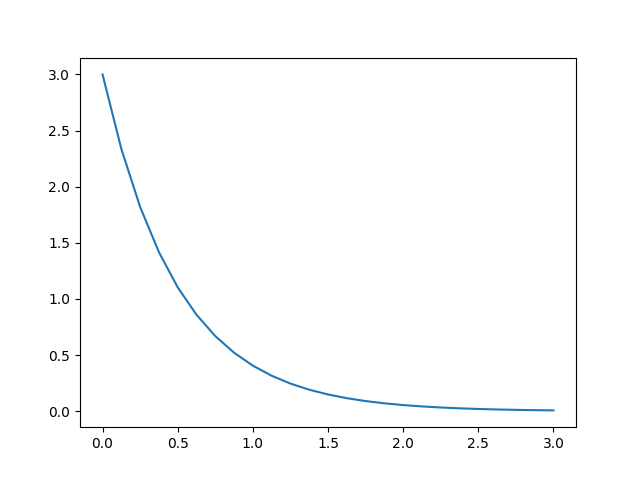
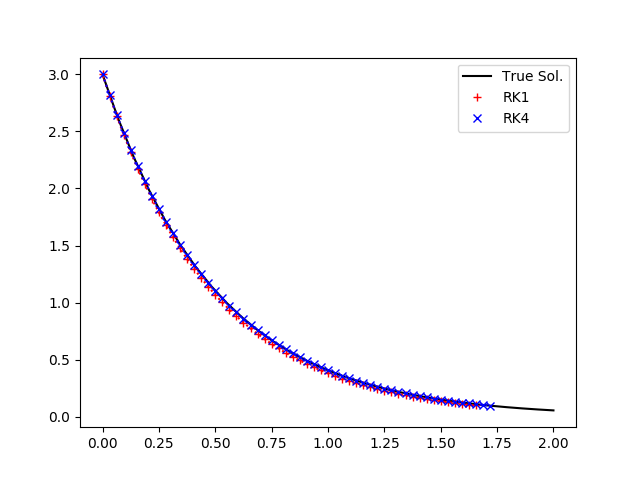
updated code and added test file

diff --git a/pynamic.py b/pynamic.py
@@ -2,13 +2,13 @@
 Pynamic ODE - an ODE integrator with dynamic time steps. Can be run as RK1 
 (faster) or RK4 (slower, but more accurate).
 """
-import numpy as np
-import matplotlib.pyplot as plt
 
-def dynamic_ode_solver(func, start_time, max_time, initial_guess, 
-                       param_to_monitor, max_param_delta,
-                       base_time_step, min_step_time, end_condition,
-                       use_rk4=True):
+import numpy as np
+
+def pynamic_ode(func, start_time, max_time, initial_val, 
+                param_to_monitor, max_param_delta,
+                base_time_step, min_step_time, end_condition,
+                use_rk4=True):
     """
     Solves a system of ordinary differential equations with dynamic time steps.
     The passed in function (func) should take two arguments, a time step value,
@@ -29,7 +29,7 @@ def dynamic_ode_solver(func, start_time, max_time, initial_guess,
     relax back to the base time step (base_time_step) specified by the input. 
     The parameter to monitor should be an integer in the y_vals array. For example,
     if the initial guess has values:
-        initial_guess = [position, velocity]
+        initial_val = [position, velocity]
     and you want to make sure the position never changes by more than 1% you'd
     set param_to_monitor=0 and max_param_delta=0.01. 
     Inputs:
@@ -38,7 +38,7 @@ def dynamic_ode_solver(func, start_time, max_time, initial_guess,
         start_time       - simulation start time [s]
         max_time         - maximum time to run simulation before returning an 
                            error [s]
-        initial_guess    - array with initial parameter values
+        initial_val    - array with initial parameter values
         param_to_monitor - index of which parameter to track
         max_param_delta  - fractional difference to tolerate in param_to_monitor. 
                            A value of 0.01 means changes must be less than 1%. 
@@ -65,7 +65,7 @@ def dynamic_ode_solver(func, start_time, max_time, initial_guess,
                          the result of end_condition.
     """
 
-    y_cur = np.array(initial_guess)
+    y_cur = np.array(initial_val)
 
     times = []
     y_vals = []
@@ -77,6 +77,10 @@ def dynamic_ode_solver(func, start_time, max_time, initial_guess,
 
     status = 0 #status of the solver
     not_failed = True #set to false if the solver fails
+
+    #add the first step to the array of y values
+    times.append(current_time)
+    y_vals.append(y_cur)
 
     while current_time < max_time and end_cond_val and not_failed:
         end_val = end_condition(current_time, y_cur)
@@ -125,7 +129,9 @@ def dynamic_ode_solver(func, start_time, max_time, initial_guess,
             monitor_new = y_new[param_to_monitor]
 
             #check the percent change in the monitor
-            if abs(monitor_new - monitor_cur)/monitor_new > max_param_delta:
+            denom_val = monitor_new if monitor_new != 0 else monitor_cur
+            if denom_val != 0 and \
+                    abs(monitor_new - monitor_cur)/denom_val > max_param_delta:
                 #the change was larger than allowed. Reduce the step size and
                 #try again
 
@@ -151,21 +157,3 @@ def dynamic_ode_solver(func, start_time, max_time, initial_guess,
                 y_cur = y_new
 
     return times, y_vals, status
-
-def pynamic_test():
-    """
-    Validate the ode integrator with this function. This function will plot the
-    function dy(t)/dt=-2y(t), which has the solution y(t)=3e^(-2t) for t>=0.
-    The test will plot the results of pynamic compared to the true solution.
-    """
-
-    sol_times = np.linspace(0, 3, 25)
-    sol_ys = 3*np.exp(-2*sol_times)
-
-    plt.plot(sol_times, sol_ys)
-
-    plt.savefig("test_results.png")
-
-    return 0
-
-pynamic_test()

diff --git a/pynamic_test.py b/pynamic_test.py
@@ -1,0 +1,73 @@
+import time
+import matplotlib.pyplot as plt
+from pynamic import pynamic_ode
+import numpy as np
+
+def pynamic_test():
+    """
+    Validate the ode integrator with this function. This function will plot the
+    function dy(t)/dt=-2y(t), which has the solution y(t)=3e^(-2t) for t>=0.
+    The test will plot the results of pynamic compared to the true solution.
+    """
+
+    sol_times = np.linspace(0, 3, 25)
+
+    #the true solution to the ODE
+    sol_ys = 3*np.exp(-2*sol_times)
+
+    #the parameters for pynamic_ode
+    def test_func(_, y_vals):
+        return -2*y_vals
+
+    start_time = 0
+    max_time = 2
+    initial_val = [3]
+    param_to_monitor = 0
+    max_param_delta = 0.1
+    base_time_step = 0.5
+    min_step_time = 0.01
+
+    def end_condition(_, y_vals):
+        if y_vals[0] < 0.1:
+            return 1
+        return 0
+
+    start = time.time()
+    times, y_vals, status = pynamic_ode(test_func, start_time, max_time, 
+                                        initial_val, param_to_monitor, 
+                                        max_param_delta, base_time_step, 
+                                        min_step_time, end_condition, 
+                                        use_rk4=False)
+    end = time.time()
+    print("time to run with RK1: %2.3e"%(end-start))
+
+    start = time.time()
+    t_rk4, y_rk4s, st_rk4 = pynamic_ode(test_func, start_time, max_time, 
+                                        initial_val, param_to_monitor, 
+                                        max_param_delta, base_time_step, 
+                                        min_step_time, end_condition, 
+                                        use_rk4=True)
+    end = time.time()
+    print("time to run with RK4: %2.3e"%(end-start))
+
+    sol_times = np.linspace(0, max_time, max_time*15)
+
+    #the true solution to the ODE
+    sol_ys = 3*np.exp(-2*sol_times)
+
+
+    print("status of solver: %d, status with RK4: %d"%(status, st_rk4))
+    plt.plot(sol_times, sol_ys, 'k', label="True Sol.")
+
+    plt.plot(times, y_vals, 'r+', label="RK1")
+    plt.plot(times, y_vals, 'r:')
+    plt.plot(t_rk4, y_rk4s, 'bx', label="RK4")
+    plt.plot(t_rk4, y_rk4s, 'b:')
+
+    plt.legend()
+
+    plt.savefig("test_results.png")
+
+    return 0
+
+pynamic_test()
